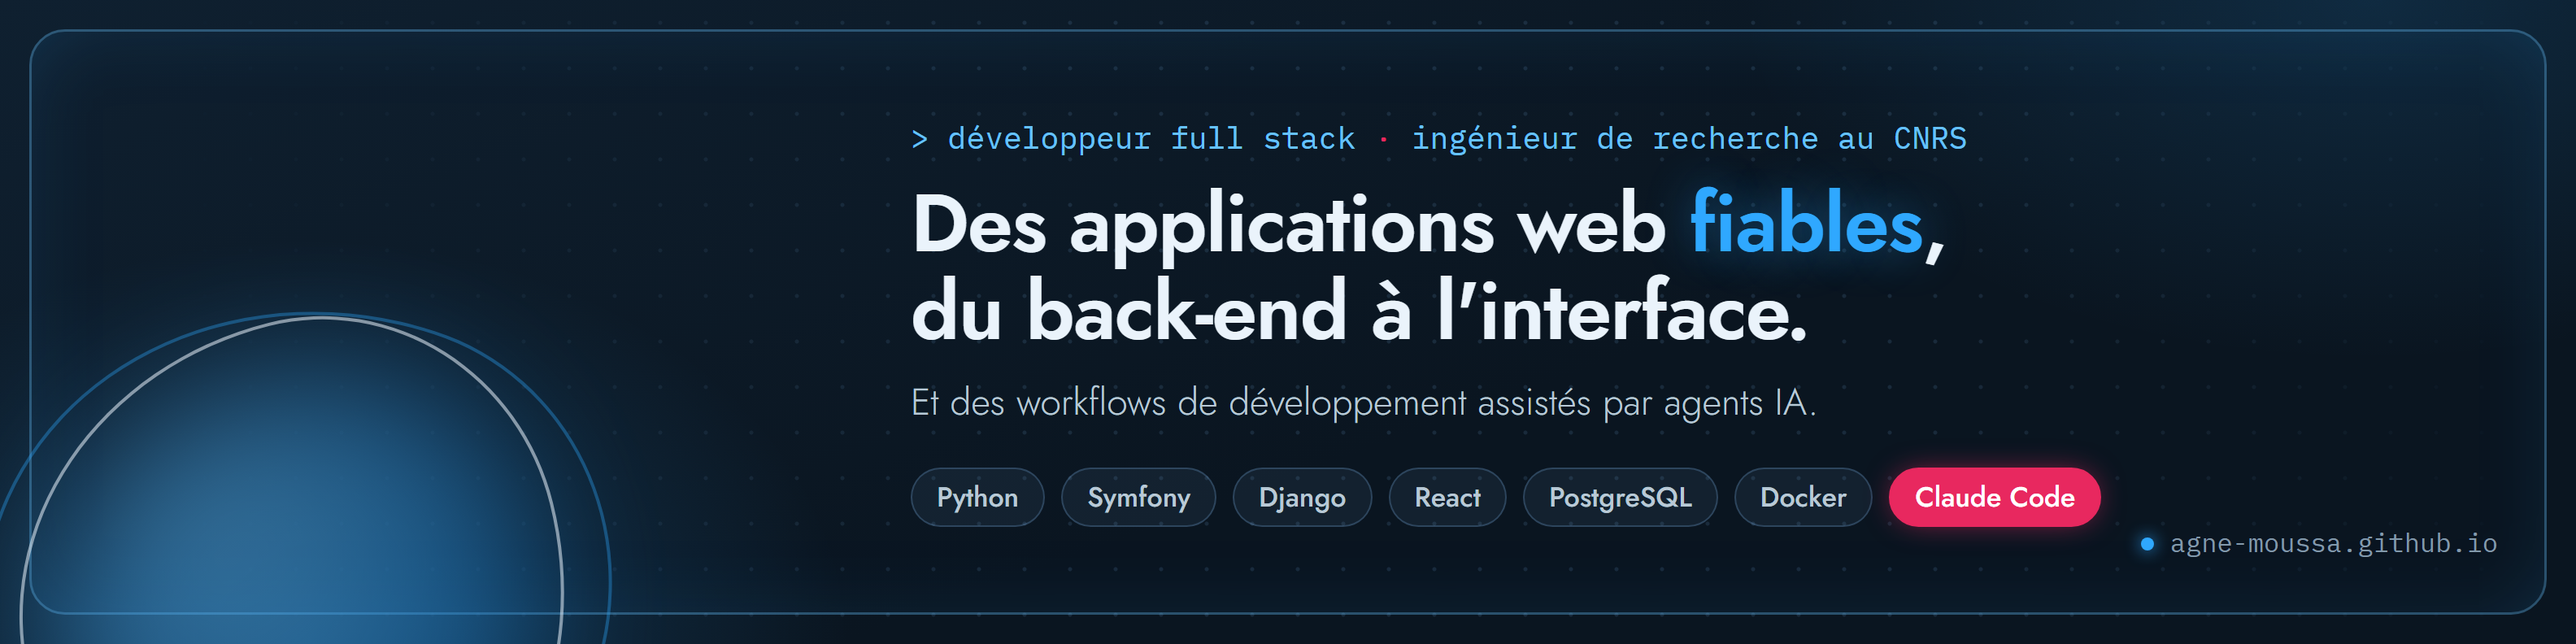
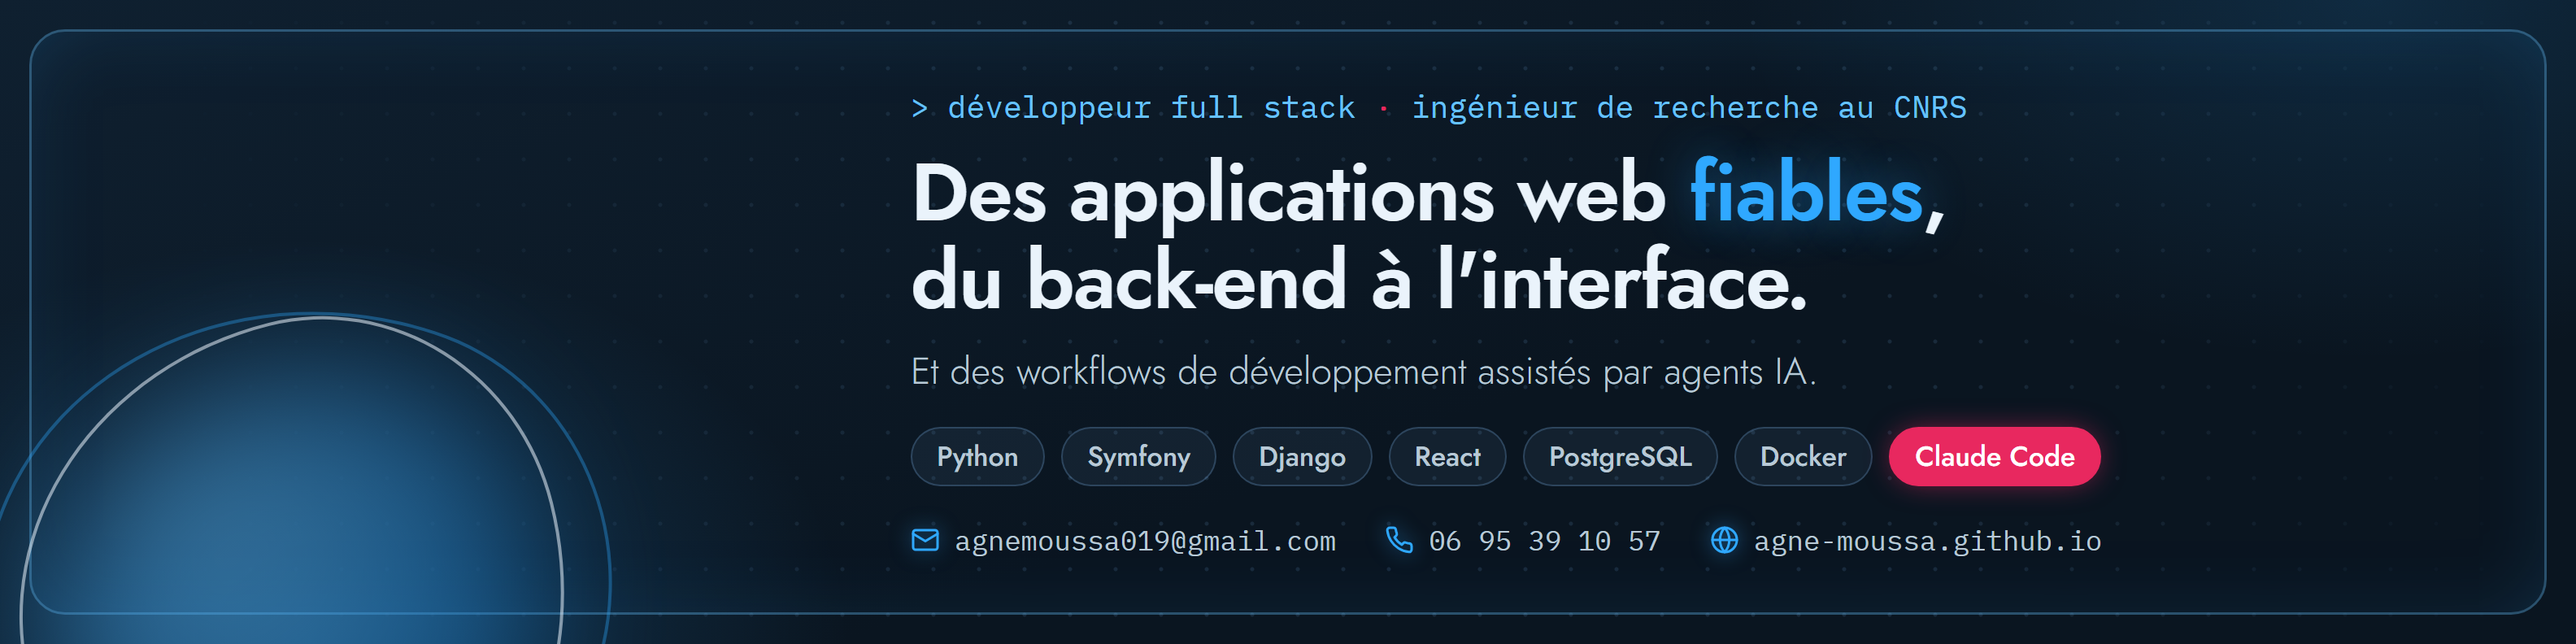
feat: e-mail et téléphone sur la bannière LinkedIn

Changed region(s): [[0.3438, 0.1515, 0.9688, 0.8788]]

diff --git a/og/linkedin-banner.html b/og/linkedin-banner.html
@@ -65,7 +65,7 @@
   .prompt b { color: var(--pink); font-weight: 400; }
   h1 { font-size: 50px; font-weight: 600; line-height: 1.08; letter-spacing: -.015em; margin: 0 0 12px; }
   h1 span { color: var(--blue); text-shadow: 0 0 28px rgba(47, 168, 255, .45); }
-  .sub { font-size: 23px; font-weight: 300; color: var(--text-2); margin: 0 0 24px; }
+  .sub { font-size: 23px; font-weight: 300; color: var(--text-2); margin: 0 0 18px; }
   .chips { display: flex; flex-wrap: wrap; gap: 10px; margin: 0; padding: 0; list-style: none; }
   .chips li {
     font-size: 17px; font-weight: 500; padding: 5px 15px; border-radius: 999px;
@@ -73,8 +73,9 @@
   }
   .chips li.accent { background: var(--pink); border-color: var(--pink); color: #fff; box-shadow: 0 0 18px -4px rgba(232, 40, 95, .7); }
 
-  .url { position: absolute; right: 48px; bottom: 36px; font-family: 'Plex Mono', monospace; font-size: 16px; color: var(--muted); }
-  .url::before { content: ''; display: inline-block; width: 8px; height: 8px; border-radius: 50%; background: var(--blue); box-shadow: 0 0 10px var(--blue); margin-right: 10px; vertical-align: 1px; }
+  .contact { display: flex; flex-wrap: wrap; gap: 30px; margin: 22px 0 0; padding: 0; list-style: none; font-family: 'Plex Mono', monospace; font-size: 17px; color: var(--text-2); }
+  .contact li { display: flex; align-items: center; gap: 9px; }
+  .contact svg { width: 18px; height: 18px; fill: none; stroke: var(--blue); stroke-width: 2; stroke-linecap: round; stroke-linejoin: round; filter: drop-shadow(0 0 6px rgba(47, 168, 255, .6)); }
 </style>
 </head>
 <body>
@@ -91,8 +92,11 @@
       <li>Python</li><li>Symfony</li><li>Django</li><li>React</li><li>PostgreSQL</li><li>Docker</li>
       <li class="accent">Claude Code</li>
     </ul>
+    <ul class="contact">
+      <li><svg viewBox="0 0 24 24"><rect x="2" y="4" width="20" height="16" rx="2" /><path d="m22 7-10 6L2 7" /></svg>agnemoussa019@gmail.com</li>
+      <li><svg viewBox="0 0 24 24"><path d="M22 16.9v3a2 2 0 0 1-2.2 2 19.8 19.8 0 0 1-8.6-3.1 19.5 19.5 0 0 1-6-6A19.8 19.8 0 0 1 2.1 4.2 2 2 0 0 1 4.1 2h3a2 2 0 0 1 2 1.7c.1 1 .4 1.9.7 2.8a2 2 0 0 1-.5 2.1L8 9.9a16 16 0 0 0 6 6l1.3-1.3a2 2 0 0 1 2.1-.4c.9.3 1.8.6 2.8.7a2 2 0 0 1 1.7 2z" /></svg>06 95 39 10 57</li>
+      <li><svg viewBox="0 0 24 24"><circle cx="12" cy="12" r="10" /><path d="M2 12h20M12 2a15 15 0 0 1 0 20M12 2a15 15 0 0 0 0 20" /></svg>agne-moussa.github.io</li>
+    </ul>
   </div>
-
-  <p class="url">agne-moussa.github.io</p>
 </body>
 </html>
